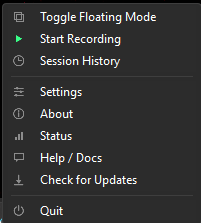
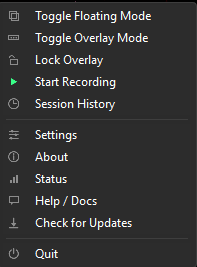
docs(overlay): fix stale window_layer references, document overlay + GPU Apps on the website
Technical docs and the website had drifted from the shipped code:

- CLAUDE.md and docs/architecture.md still described the overlay as
  gated by `window_layer == "overlay"` and routed through a
  now-nonexistent `update_overlay_mode`/`render_overlay` — leftover
  from before the "independent add-on" refactor. Corrected both to
  describe the actual design (Settings.overlay_enabled,
  render_overlay_viewport, the DComp reveal-burst and resize debounce).
- docs/architecture.md's threshold-key list didn't mention the new
  cpu_load/gpu_load/ram_load/disk_usage keys; overlay.rs's own doc
  comment still said "threshold-key" after that field was renamed to
  a color fn.
- The website had zero presence for the overlay feature (issue #183):
  no section, no Settings-tab entry, no screenshot. Added a "Game
  Overlay Mode" showcase section, a features-grid card, and an
  "Overlay" tab in the Settings dialog gallery — all gated behind a
  "Coming in v1.40.0" badge since the site ships ahead of that release.
  Updated the tray menu screenshots and copy to show the new Toggle
  Overlay Mode / Lock Overlay rows, and refreshed the Alerts screenshot
  for the new load/usage % threshold rows.
- The GPU Apps panel (gpu_processes.rs) was never documented on the
  site at all — panel count was stale ("Eleven Live Panels (7 default
  + 4 optional)" when the settings panel list has 12 entries, 5
  optional). Added its panel card and corrected the count.
[…]

diff --git a/website/index.html b/website/index.html
@@ -146,13 +146,18 @@
         </li>
         <li class="feature-card">
           <div class="feature-dot"></div>
-          <h3>Session recording &amp; history<span class="badge-soon">Coming in v1.38</span></h3>
+          <h3>Session recording &amp; history</h3>
           <p>Start and stop recording sessions straight from the tray menu — the tray icon blinks while one is live. Browse, chart, rename, pin, and delete past sessions in the History window.</p>
         </li>
         <li class="feature-card">
           <div class="feature-dot"></div>
-          <h3>Redesigned tray menu<span class="badge-soon">Coming in v1.38</span></h3>
+          <h3>Redesigned tray menu</h3>
           <p>Every tray menu row has its own procedurally-drawn icon — no bundled images — with a blinking red dot on Stop Recording while a session is live.</p>
+        </li>
+        <li class="feature-card">
+          <div class="feature-dot"></div>
+          <h3>Game overlay mode<span class="badge-soon">Coming in v1.40.0</span></h3>
+          <p>A compact, click-through metric strip that sits over any fullscreen game or app. Corner-anchored or free-dragged, with a global Ctrl+Alt+O hotkey to show or hide it without alt-tabbing.</p>
         </li>
       </ul>
     </div>
@@ -216,21 +221,55 @@
     </div>
   </section>
 
+  <!-- Game overlay mode -->
+  <section class="section" id="overlay-mode">
+    <div class="container">
+      <header class="section-head">
+        <h2>Game Overlay Mode<span class="badge-soon">Coming in v1.40.0</span></h2>
+        <p>A compact metric strip that floats over any fullscreen game or app — no alt-tabbing, no separate monitor required. Pick which metrics to show, anchor a corner or drag it anywhere, and toggle it on or off with a global hotkey.</p>
+      </header>
+      <div class="floating-showcase">
+        <div class="dual-shots">
+          <div class="screen-wrap screen-wrap--wide">
+            <img src="images/overlay-mode.png" alt="RIGStats compact overlay strip in the top-left corner while playing a game, showing CPU and GPU temperature, load, clocks, power, VRAM, RAM usage, and ping" class="hero-img">
+          </div>
+          <div class="screen-wrap">
+            <img src="images/overlay-mode-close.png" alt="Close-up of the overlay's metric strip, with warn/crit values colored yellow and orange" class="hero-img">
+          </div>
+        </div>
+        <ul class="floating-features">
+          <li>Corner-anchored (drag-free) or free-dragged anywhere on screen</li>
+          <li>Choose which metrics appear and reorder them with arrows</li>
+          <li>Adjustable scale, opacity, and an optional frosted background card</li>
+          <li>Click-through by default — mouse clicks pass to the game underneath</li>
+          <li>Global <strong>Ctrl+Alt+O</strong> hotkey shows/hides it without leaving the game</li>
+          <li>Toggle from the tray menu or Settings — independent of window layer or floating mode</li>
+        </ul>
+      </div>
+    </div>
+  </section>
+
   <!-- Session recording -->
   <section class="section section-alt" id="recording">
     <div class="container">
       <header class="section-head">
-        <h2>Recording, Right From the Tray<span class="badge-soon">Coming in v1.38</span></h2>
+        <h2>Recording, Right From the Tray</h2>
         <p>Every menu row now has its own procedurally-drawn icon — no external image assets — and starting a recording is one click away.</p>
       </header>
       <div class="floating-showcase">
-        <div class="screen-wrap">
-          <img src="images/tray-menue-recording.png" alt="RIGStats tray menu while a session is recording — a red dot icon next to Stop Recording, with procedurally-drawn icons on every row" class="hero-img">
+        <div class="dual-shots">
+          <div class="screen-wrap">
+            <img src="images/tray-menue.png" alt="RIGStats tray menu showing Toggle Floating Mode, Toggle Overlay Mode, Lock Overlay, Start Recording, Session History, and app rows, each with a procedurally-drawn icon" class="hero-img">
+          </div>
+          <div class="screen-wrap">
+            <img src="images/tray-menue-recording.png" alt="The same tray menu while a session is recording — a red dot icon next to Stop Recording" class="hero-img">
+          </div>
         </div>
         <ul class="floating-features">
           <li>Toggle <strong>Start/Stop Recording</strong> from the tray menu — no dialog needed</li>
           <li>The tray icon blinks a red dot while a session is live, so it's obvious at a glance</li>
           <li>Open <strong>Session History</strong> from the same menu to browse and chart past sessions</li>
+          <li><strong>Toggle Overlay Mode</strong> and <strong>Lock Overlay</strong> (click-through) rows show/hide and lock the game overlay without opening Settings<span class="badge-soon">Coming in v1.40.0</span></li>
           <li>Every menu row's icon is drawn procedurally at startup — no bundled image assets</li>
         </ul>
       </div>
@@ -241,7 +280,7 @@
   <section class="section section-alt" id="panels">
     <div class="container">
       <header class="section-head">
-        <h2>Eleven Live Panels (7 default + 4 optional)</h2>
+        <h2>Twelve Live Panels (7 default + 5 optional)</h2>
         <p>Each panel tracks exactly what matters for that component — with sparkline history so you see trends, not just a snapshot.</p>
       </header>
 
@@ -370,6 +409,22 @@
 
         <article class="panel-card">
           <div class="panel-img-wrap">
+            <img src="images/gpu-apps-panel.png" alt="GPU Apps panel screenshot">
+          </div>
+          <div class="panel-body">
+            <h3>GPU Apps</h3>
+            <p>Task-Manager-style per-process GPU usage — see exactly which game, encoder, or background app is actually using the GPU, not just overall load. Attributes each process to a physical adapter when more than one GPU is active. Optional panel, enabled in Settings.</p>
+            <ul>
+              <li>Top processes by GPU usage (%)</li>
+              <li>Engine type per process (3D, Video Decode, etc.)</li>
+              <li>Physical adapter attribution on multi-GPU systems</li>
+            </ul>
+            <span class="source-tag">PDH</span>
+          </div>
+        </article>
+
+        <article class="panel-card">
+          <div class="panel-img-wrap">
             <img src="images/battery-panel.png" alt="Battery panel screenshot">
           </div>
           <div class="panel-body">
@@ -467,19 +522,21 @@
             <button class="settings-tab" data-img="settings-alerts-dialog.png" role="tab" aria-selected="false">Alerts</button>
             <button class="settings-tab" data-img="settings-appearance-dialog.png" role="tab" aria-selected="false">Appearance</button>
             <button class="settings-tab" data-img="settings-general-dialog.png" role="tab" aria-selected="false">General</button>
+            <button class="settings-tab" data-img="settings-overlay-dialog.png" role="tab" aria-selected="false">Overlay</button>
           </div>
           <div class="dialog-img-wrap">
             <img id="settings-preview" src="images/settings-display-dialog.png" alt="Settings — Display tab" class="dialog-img">
           </div>
           <div class="dialog-body">
             <h3>Settings</h3>
-            <p>Five focused tabs to configure every aspect of the dashboard. Changes apply as a live preview; Cancel restores the previous state. In <strong>Desktop Wallpaper</strong> mode the dashboard is a separate background process, so settings apply on <strong>Save</strong> instead of live preview, no-op controls grey out, and the display profile is locked — switch to a non-wallpaper layer to change it.</p>
+            <p>Six focused tabs to configure every aspect of the dashboard. Changes apply as a live preview; Cancel restores the previous state. In <strong>Desktop Wallpaper</strong> mode the dashboard is a separate background process, so settings apply on <strong>Save</strong> instead of live preview, no-op controls grey out, and the display profile is locked — switch to a non-wallpaper layer to change it.</p>
             <ul>
               <li><strong>Display</strong> — display profile, window layer (Normal / Always on Top / Always Behind / Desktop Wallpaper — lives in the wallpaper layer and survives Win+D), opacity, floating mode and panel scale, fill screen and alignment</li>
               <li><strong>Panels</strong> — toggle panel visibility, use arrows to reorder, set PSU rated wattage</li>
-              <li><strong>Alerts</strong> — Notify on Critical toggle, cooldown, Warn/Crit thresholds for CPU/GPU/RAM/Disk (°C) and battery charge % and power W</li>
+              <li><strong>Alerts</strong> — Notify on Critical toggle, cooldown, Warn/Crit thresholds for CPU/GPU/RAM/Disk temperature (°C), CPU/GPU/RAM/Disk usage (%), and battery charge % and power W</li>
               <li><strong>Appearance</strong> — override model name, colour theme</li>
               <li><strong>General</strong> — launch at startup, stats CSV logging and retention</li>
+              <li><strong>Overlay</strong> — enable the game overlay, choose and reorder metrics, layout/anchor/scale/opacity/background, click-through lock<span class="badge-soon">Coming in v1.40.0</span></li>
             </ul>
           </div>
         </article>
@@ -506,7 +563,7 @@
             <img src="images/session-history-dialog.png" alt="Session History window screenshot — session list on the left, CPU/GPU/RAM charts on the right" class="dialog-img">
           </div>
           <div class="dialog-body">
-            <h3>Session History<span class="badge-soon">Coming in v1.38</span></h3>
+            <h3>Session History</h3>
             <p>Browse and chart past recording sessions. Each session gets its own CPU/GPU/RAM/network/disk/ping charts with synced hover, so you can see exactly what happened during a gaming session or stress test.</p>
             <ul>
               <li>Pin, rename, reveal in Explorer, or delete any session</li>

diff --git a/website/style.css b/website/style.css
@@ -874,3 +874,14 @@ code {
   max-width: 420px;
   margin: 0 auto 48px;
 }
+
+/* ── Two stacked shots (e.g. main + close-up, or before/after states) ── */
+.dual-shots {
+  display: flex;
+  flex-direction: column;
+  align-items: center;
+  gap: 18px;
+}
+.dual-shots .screen-wrap:not(.screen-wrap--wide) .hero-img {
+  max-height: 280px;
+}

diff --git a/docs/architecture.md b/docs/architecture.md
@@ -97,17 +97,23 @@ viewport (a separate OS window). The main window is moved off-screen (`-32000,
 -32000`) rather than hidden so egui continues ticking. Panel positions are
 persisted to settings on change via a dirty-flag debounce.
 
-**Overlay mode** (`window_layer == "overlay"`, issue #183): the same root
-window (no separate process/viewport) renders a compact, always-on-top,
-optionally click-through strip of user-selected metrics (`overlay.rs`)
-instead of the portrait/landscape dashboard, corner-anchored or free-dragged.
-`RigStatsApp::update_overlay_mode` mirrors `update_wallpaper_mode`'s per-frame
-"derive want from settings, act only on the enter/leave edge" shape but
-without any child-process supervision. Click-through uses
-`egui::ViewportCommand::MousePassthrough` — no raw Win32 FFI is needed for
-it, unlike Always-Behind (`win32_behind.rs`). A fixed global hotkey
-(`hotkey.rs`, `Ctrl+Alt+O`) shows/hides the overlay without leaving the
-game — the conventional in-game-overlay toggle; locking/unlocking
+**Overlay mode** (`Settings.overlay_enabled`, issue #183): an independent
+add-on, not a `window_layer` value — it renders in its own always-on-top
+viewport (`RigStatsApp::render_overlay_viewport` in `main.rs`) showing a
+compact, optionally click-through strip of user-selected metrics
+(`overlay.rs`), corner-anchored or free-dragged, and coexists with whatever
+the main window (portrait/landscape/floating/wallpaper) is doing underneath.
+Click-through uses `egui::ViewportCommand::MousePassthrough` — no raw Win32
+FFI is needed for it, unlike Always-Behind (`win32_behind.rs`). Per-pixel
+transparency (where DComp is available) required a hide → reapply-burst →
+reveal sequence to avoid a transient white box on activation/resize (the
+DWM redirection-bitmap binding doesn't reliably follow a live resize), tuned
+to a handful of frames after measuring that a hidden window's paint/present
+cadence is throttled to a fixed ~100 ms/frame regardless of work done inside
+it. A live Scale-slider drag debounces before committing to a new size, to
+avoid re-triggering that burst on every intermediate value. A fixed global
+hotkey (`hotkey.rs`, `Ctrl+Alt+O`) shows/hides the overlay without leaving
+the game — the conventional in-game-overlay toggle; locking/unlocking
 click-through is a separate, less-frequent action left to the tray row
 and Settings switch only.
 
@@ -201,7 +207,7 @@ rig-dashboard/
 | `poll.rs` | Background `poll_loop` (tokio), `PollStats`/`DriveInfo`/`ProcessInfo` data types, CSV log payload mapping; pauses (releases the sensor pipe) when the main app is in wallpaper mode |
 | `gpu_process.rs` | `GpuEngineQuery` — persistent PDH query on `\GPU Engine(*)\Utilization Percentage` (Task Manager's data source); `adapter_luid_map()` maps each sample's LUID to a physical GPU via DXGI. Vendor-neutral, unelevated. Pure `parse_instance`/`aggregate` are unit-tested; the Win32 FFI carries a scoped `#![allow(unsafe_code)]` |
 | `gpu_guard.rs` | `install_gpu_loss_guard` — wgpu `on_uncaptured_error`/`set_device_lost_callback` handlers that flag a fatal device error instead of letting wgpu panic the process |
-| `overlay.rs` | `ALL_OVERLAY_METRICS` registry (key/label/unit/extractor/threshold-key) and `draw_overlay` — the compact chip renderer for Overlay mode |
+| `overlay.rs` | `ALL_OVERLAY_METRICS` registry (key/label/unit/`extract` fn/`color` fn) and `draw_overlay` — the compact chip renderer for the overlay add-on |
 | `hotkey.rs` | Global hotkey listener (`RegisterHotKey`/`WM_HOTKEY` on a dedicated thread) — fixed `Ctrl+Alt+O`, shows/hides the overlay |
 | `tray.rs` | System tray icon + menu, `TrayCmd` channel, `load_app_icon`, `panel_label`/`panel_initial_h` |
 | `menu_icons.rs` | Procedurally-rasterized glyph icons (circle/ring/triangle/rect/line primitives, supersampled) for each tray context-menu row — no external image assets |
@@ -343,12 +349,20 @@ after an upgrade.
 
 Alert thresholds are stored as `thresholds: HashMap<String, ComponentThresholds>`
 where `ComponentThresholds { warn: Option<u8>, crit: Option<u8> }` and the keys
-are `"cpu"`, `"gpu"`, `"ram"`, `"disk"`, `"battery"`.
+are `"cpu"`, `"gpu"`, `"ram"`, `"disk"`, `"cpu_load"`, `"gpu_load"`,
+`"ram_load"`, `"disk_usage"`, `"battery"`, `"battery_power"`.
 
 Threshold semantics differ by key:
 
 - **Temperature keys** (`cpu`/`gpu`/`ram`/`disk`): alert fires when the reading
   **exceeds** the threshold. `warn < crit` is enforced.
+- **Load/usage percentage keys** (`cpu_load`/`gpu_load`/`ram_load`/
+  `disk_usage`): same "exceeds" direction as temperature, but a distinct key
+  since the values are percentages, not °C — kept separate from `cpu`/`gpu`/
+  `ram`/`disk` (which are temperature-only) so a load % reading is never
+  colored against a °C-calibrated cutoff. Read into `PanelThresholds` in
+  `dashboard.rs` and consumed by the overlay's per-metric `color` functions
+  (`overlay.rs`) and the main Disk panel's per-drive usage bar.
 - **Battery key**: alert fires when charge % **drops below** the threshold.
   `warn > crit` is enforced (warn at 20 %, crit at 10 % is the default).
   Only fires when discharging. Alert message: "Battery WARNING — 18% remaining".

diff --git a/CLAUDE.md b/CLAUDE.md
@@ -123,8 +123,8 @@ Settings are read from `%APPDATA%\se.codeby.rigstats\`. The sidecar pipe accepts
 - **`menu_icons.rs`** — procedurally-rasterized glyph icons for each tray context-menu row (no external image assets)
 - **`lock_ext.rs`** — `LockSafe::lock_safe()`: poison-tolerant `Mutex` locking used throughout `windows/*.rs`
 - **`gpu_guard.rs`** — `install_gpu_loss_guard`: wgpu device-error/device-lost callbacks that flag a fatal GPU error instead of panicking
-- **`overlay.rs`** — Overlay mode (issue #183): `ALL_OVERLAY_METRICS` registry + `draw_overlay` compact chip renderer, driven by `window_layer == "overlay"` and `RigStatsApp::update_overlay_mode`/`render_overlay` in `main.rs`. Click-through uses `egui::ViewportCommand::MousePassthrough`, no raw Win32 needed
-- **`hotkey.rs`** — global hotkey listener (`RegisterHotKey`/`WM_HOTKEY` on its own thread); fixed `Ctrl+Alt+O` shows/hides the overlay (`RigStatsApp::toggle_overlay_mode`), not remappable in v1
+- **`overlay.rs`** — click-through game overlay (issue #183): `ALL_OVERLAY_METRICS` registry (key/label/unit/`extract`/`color` fn) + `draw_overlay` compact chip renderer. An independent add-on driven by `Settings.overlay_enabled` — not a `window_layer` value — so it coexists with whatever the main window is doing; `RigStatsApp::render_overlay_viewport` in `main.rs` owns its own always-on-top viewport, DComp reveal-burst (white-flash fix), and resize debounce. Click-through uses `egui::ViewportCommand::MousePassthrough`, no raw Win32 needed
+- **`hotkey.rs`** — global hotkey listener (`RegisterHotKey`/`WM_HOTKEY` on its own thread, wakes the main loop via a `Context` clone); fixed `Ctrl+Alt+O` shows/hides the overlay (`RigStatsApp::toggle_overlay_mode`), not remappable in v1
 - **`single_instance.rs`** — `ensure_single_instance`: named-mutex guard checked first thing in `main()`; if another instance is already running, focuses its window (`FindWindowW`/`SetForegroundWindow`) and this process exits instead of starting a second one
 - **`theme.rs`** — `AppTheme`, color helpers, `panel_frame()`, sparkline/bar helpers, `avail_color()`, dialog button API (`dialog_btn_primary`/`dialog_btn_secondary`)
 - **`ring.rs`** — ring gauge renderer; **`spark.rs`** — sparkline ring buffer; **`tempcolor.rs`** — `temp_color()` value→green/yellow/red
